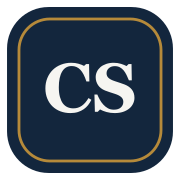
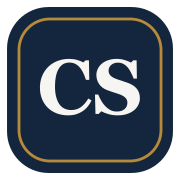
feat: add visible version and Windows viewport QA

Changed region(s): [[0.2222, 0.3056, 0.7778, 0.6667], [0.5833, 0.5, 0.6667, 0.5278], [0.4722, 0.4167, 0.5, 0.4722]]

diff --git a/src/features/auth/LoginPage.tsx b/src/features/auth/LoginPage.tsx
@@ -24,11 +24,11 @@ export function LoginPage({ busy, error, notice, onPinLogin, onRecover, onPasske
 
   return <main className="app-safe-screen grid bg-background lg:grid-cols-[1.05fr_.95fr]">
     <section className="hidden bg-primary p-12 text-surface lg:flex lg:flex-col lg:justify-between">
-      <div><div className="grid size-12 place-items-center rounded-xl border border-accent/50 font-display text-xl text-accent">CS</div><p className="mt-8 max-w-lg font-display text-4xl leading-tight">Gestão de clientes e faturação com rigor, clareza e confidencialidade.</p></div>
+      <div><div className="grid size-12 place-items-center rounded-xl border border-accent/50 font-display text-2xl font-semibold text-accent">CS</div><p className="mt-8 max-w-lg font-display text-4xl leading-tight">Gestão de clientes e faturação com rigor, clareza e confidencialidade.</p></div>
       <p className="max-w-md text-sm leading-6 text-surface/65">Acesso reservado a utilizadores criados pela administração. A atividade de segurança pode ser auditada.</p>
     </section>
     <section className="flex items-center justify-center p-6 sm:p-10"><div className="w-full max-w-md">
-      <div className="mb-8 lg:hidden"><div className="grid size-11 place-items-center rounded-xl bg-primary font-display text-surface">CS</div></div>
+      <div className="mb-8 lg:hidden"><div className="grid size-11 place-items-center rounded-xl bg-primary font-display text-xl font-semibold text-surface">CS</div></div>
       <p className="text-xs font-semibold uppercase tracking-[0.18em] text-secondary">Carina - Legal</p>
       <h1 className="mt-2 font-display text-3xl font-semibold">{recovery ? 'Recuperar acesso' : 'Iniciar sessão'}</h1>
       <p className="mt-3 text-sm leading-6 text-text-secondary">{recovery ? 'A recuperação é enviada apenas para o email administrativo associado à conta.' : 'Introduza o nome de utilizador e o PIN definidos pela administração.'}</p>
@@ -43,7 +43,7 @@ export function LoginPage({ busy, error, notice, onPinLogin, onRecover, onPasske
       </form>
       {!recovery && <button type="button" disabled={busy} onClick={() => void onPasskeyLogin()} className="mt-3 min-h-11 w-full rounded-lg border border-border bg-surface px-4 py-3 font-semibold text-primary hover:bg-surface-muted disabled:opacity-50">Entrar com Face ID, Windows Hello ou passkey</button>}
       <button type="button" onClick={() => { onClearError(); setRecovery((value) => !value) }} className="mt-5 text-sm font-semibold text-secondary hover:underline">{recovery ? 'Voltar ao login' : 'Preciso de recuperar o acesso'}</button>
-      <p className="mt-8 border-t border-border pt-5 text-xs leading-5 text-text-secondary">Não existe registo público. Os acessos são criados em Administração.</p>
+      <p className="mt-8 border-t border-border pt-5 text-xs leading-5 text-text-secondary">Não existe registo público. Os acessos são criados em Administração.</p><p className="mt-2 text-[0.7rem] text-text-secondary">Versão {__APP_VERSION__}</p>
     </div></section>
   </main>
 }

diff --git a/src/components/layout/AppShell.tsx b/src/components/layout/AppShell.tsx
@@ -35,8 +35,8 @@ export function AppShell({ activeView, onNavigate, children }: AppShellProps) {
       {mobileOpen && <button className="app-safe-fixed fixed z-30 bg-primary/35 lg:hidden" aria-label="Fechar navegação" onClick={() => setMobileOpen(false)} />}
       <aside aria-label="Navegação principal" className={`app-shell-sidebar fixed inset-y-0 left-0 z-40 flex flex-col border-r border-border bg-primary text-surface transition-[width,transform] duration-200 ${collapsed ? 'lg:w-20' : 'lg:w-64'} w-[min(18rem,calc(100vw-var(--safe-right)))] ${mobileOpen ? 'translate-x-0' : '-translate-x-full lg:translate-x-0'}`}>
         <div className="flex h-18 items-center gap-3 border-b border-surface/10 px-5">
-          <div className="grid size-9 shrink-0 place-items-center rounded-lg border border-accent/50 bg-surface/5 font-display text-lg text-accent">CS</div>
-          {!collapsed && <div className="min-w-0"><p className="font-display text-lg font-semibold leading-none">Carina - Legal</p><p className="mt-1 text-[0.65rem] uppercase tracking-[0.18em] text-surface/55">Gestão de clientes</p></div>}
+          <div className="grid size-9 shrink-0 place-items-center rounded-lg border border-accent/50 bg-surface/5 font-display text-xl font-semibold text-accent">CS</div>
+          {!collapsed && <div className="min-w-0 flex-1"><p className="whitespace-nowrap font-display text-base font-semibold leading-none">Carina - Legal</p><p className="mt-1 whitespace-nowrap text-[0.6rem] uppercase tracking-[0.14em] text-surface/55">Gestão de clientes</p></div>}
           <button className="ml-auto hidden size-8 place-items-center rounded-lg text-surface/70 hover:bg-surface/10 hover:text-surface lg:grid" onClick={() => setCollapsed((value) => !value)} aria-label={collapsed ? 'Expandir navegação' : 'Recolher navegação'} aria-expanded={!collapsed}>
             <Icon name="chevron" className={`size-4 transition-transform ${collapsed ? '' : 'rotate-180'}`} />
           </button>
@@ -52,7 +52,7 @@ export function AppShell({ activeView, onNavigate, children }: AppShellProps) {
         <div className="border-t border-surface/10 p-3"><div className={`flex items-center gap-3 rounded-lg bg-surface/5 p-2 ${collapsed ? 'justify-center' : ''}`}>
           <span className="grid size-9 shrink-0 place-items-center rounded-full bg-secondary text-sm font-semibold">DA</span>
           {!collapsed && <div className="min-w-0"><p className="truncate text-sm font-semibold">{displayName}</p><p className="truncate text-xs text-surface/55">Sessão protegida</p></div>}
-        </div></div>
+        </div>{!collapsed && <p className="mt-2 text-center text-[0.65rem] tracking-wider text-surface/45">Versão {__APP_VERSION__}</p>}</div>
       </aside>
 
       <div className={`transition-[padding] duration-200 ${collapsed ? 'lg:pl-20' : 'lg:pl-64'}`}>

diff --git a/e2e/windows-pwa.spec.ts b/e2e/windows-pwa.spec.ts
@@ -1,0 +1,26 @@
+import { expect, test } from '@playwright/test'
+
+const windowsViewports = [
+  { name:'Windows 1280×800', width:1280, height:800 },
+  { name:'Windows 1366×768', width:1366, height:768 },
+  { name:'Windows 1440×900', width:1440, height:900 },
+  { name:'Windows 1536×864', width:1536, height:864 },
+  { name:'Windows 1920×1080', width:1920, height:1080 },
+  { name:'Windows 1920×1200', width:1920, height:1200 },
+  { name:'Windows 2560×1440', width:2560, height:1440 },
+]
+
+for (const viewport of windowsViewports) {
+  test(`${viewport.name}: sidebar, versão e overflow`, async ({ page }) => {
+    await page.setViewportSize(viewport)
+    await page.goto('/?qa-iphone=1')
+    const sidebar = page.getByRole('complementary', { name:'Navegação principal' })
+    const productName = sidebar.getByText('Carina - Legal', { exact:true })
+    await expect(sidebar).toBeVisible()
+    await expect(productName).toBeVisible()
+    await expect(sidebar.getByText('Versão 0.1.0', { exact:true })).toBeVisible()
+    expect(await productName.evaluate((element) => ({ whiteSpace:getComputedStyle(element).whiteSpace, height:element.getBoundingClientRect().height, lineHeight:parseFloat(getComputedStyle(element).lineHeight) }))).toMatchObject({ whiteSpace:'nowrap' })
+    expect(await page.evaluate(() => document.documentElement.scrollWidth <= window.innerWidth)).toBe(true)
+    await expect(page.getByRole('button', { name:'Terminar sessão' })).toBeVisible()
+  })
+}

diff --git a/vite.config.ts b/vite.config.ts
@@ -3,8 +3,11 @@ import react from '@vitejs/plugin-react'
 import tailwindcss from '@tailwindcss/vite'
 import { readFileSync } from 'node:fs'
 
+const packageVersion = JSON.parse(readFileSync(new URL('./package.json', import.meta.url), 'utf8')).version as string
+
 // https://vite.dev/config/
 export default defineConfig({
+  define: { __APP_VERSION__: JSON.stringify(packageVersion) },
   plugins: [
     react(),
     tailwindcss(),

diff --git a/src/vite-env.d.ts b/src/vite-env.d.ts
@@ -1,0 +1,3 @@
+/// <reference types="vite/client" />
+
+declare const __APP_VERSION__: string

diff --git a/docs/development-workflow.md b/docs/development-workflow.md
@@ -1,5 +1,14 @@
 # Workflow de desenvolvimento
 
+## Publicação por lotes e versões
+
+- Alterações pedidas durante o trabalho são acumuladas e verificadas localmente.
+- Não fazer `push`, merge ou publicação por cada instrução.
+- Quando solicitado, apresentar a lista das alterações pendentes e respetivos testes.
+- Só publicar após instrução explícita do responsável pelo projeto.
+- A versão visível segue SemVer: correção compatível aumenta `PATCH` (`0.1.1`), nova funcionalidade compatível aumenta `MINOR` (`0.2.0`) e mudança incompatível aumenta `MAJOR` (`1.0.0`).
+- Durante o MVP usa-se a série `0.x`; a primeira versão considerada estável e publicável será `1.0.0` após a auditoria final.
+
 1. Começar sempre com `git switch main` e `git pull --ff-only`.
 2. Criar `feature/*`, `fix/*`, `docs/*` ou `security/*` por alteração coerente.
 3. Usar exclusivamente o `pnpm-lock.yaml` versionado e `pnpm install --frozen-lockfile`.

diff --git a/PROJECT_STATE.md b/PROJECT_STATE.md
@@ -2,6 +2,8 @@
 
 Atualizado em: 2026-08-16
 
+- Regra de entrega atual: acumular alterações localmente; `push` e publicação apenas após pedido explícito. Versão local atual: `0.1.0`.
+
 ## Atualização — identidade, acesso e PWA
 
 - Nome visível alterado para **Carina - Legal** e monograma para **CS**.
